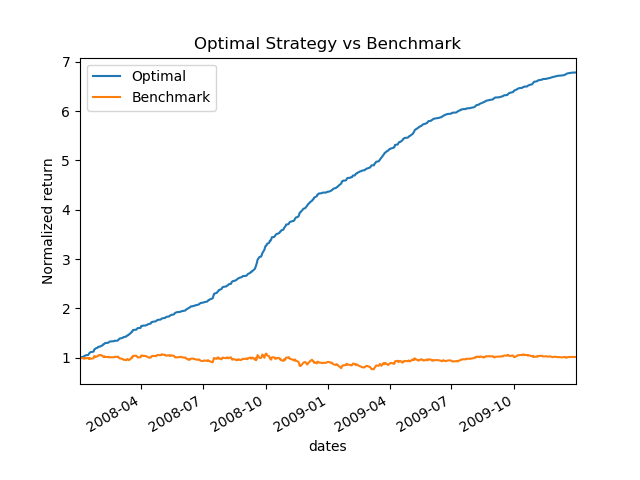
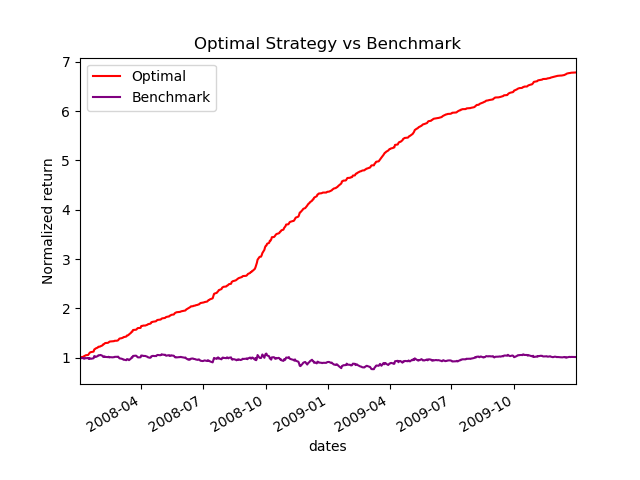
completed code for project

diff --git a/indicator_evaluation/testproject.py b/indicator_evaluation/testproject.py
@@ -31,18 +31,11 @@ def calculate_stats(port_vals):
 
 
 def printData(sharpe_ratio, cum_ret, std_daily_ret, avg_daily_ret, portVals):
-   print()
-   print()
-   print(f"Sharpe Ratio of Fund: {sharpe_ratio}")  		  	   		  		 		  		  		    	 		 		   		 		  
-   print()  		  	   		  		 		  		  		    	 		 		   		 		  
-   print(f"Cumulative Return of Fund: {cum_ret}")  		  	   		  		 		  		  		    	 		 		   		 		  
-   print()  		  	   		  		 		  		  		    	 		 		   		 		  
-   print(f"Standard Deviation of Fund: {std_daily_ret}")  		  	   		  		 		  		  		    	 		 		   		 		  
-   print()  		  	   		  		 		  		  		    	 		 		   		 		  
-   print(f"Average Daily Return of Fund: {avg_daily_ret}")  		  	   		  		 		  		  		    	 		 		   		 		  
-   print()  		  	   		  		 		  		  		    	 		 		   		 		  
+   print(f"Sharpe Ratio of portfolio: {sharpe_ratio}")  		  	   		  		 		  		  		    	 		 		   		 		  	 		  
+   print(f"Cumulative Return of portfolio: {cum_ret}")  		  	   		  		 		  		  		    	 		 		   		 		  	 		  
+   print(f"Standard Deviation of portfolio: {std_daily_ret}")  		  	   		  		 		  		  		    	 		 		   		 		  	 		  
+   print(f"Average Daily Return of portfolio: {avg_daily_ret}")  		  	   		  		 		  		  		    	 		 		   		 		  	 		  
    print(f"Final Portfolio Value: {portVals.iloc[-1][0]}")
-   print()
    print()
 
 if __name__ == "__main__":
@@ -59,14 +52,17 @@ if __name__ == "__main__":
 
    # get data and print it for optimal trades and benchmark trades
    cum_ret, avg_daily_ret, std_daily_ret, sharpe_ratio = calculate_stats(portVals.to_numpy())
+   print()
+   print('Statistics of Optimal Strategy:\n')
    printData(sharpe_ratio, cum_ret, std_daily_ret, avg_daily_ret, portVals)
    cum_ret, avg_daily_ret, std_daily_ret, sharpe_ratio = calculate_stats(benchportVals.to_numpy())
+   print('Statistics of Benchmark:\n')
    printData(sharpe_ratio, cum_ret, std_daily_ret, avg_daily_ret, benchportVals)
    
    portVals = portVals/portVals.iloc[0]
    benchportVals = benchportVals/benchportVals.iloc[0]
-   ax = portVals.plot()
-   benchportVals.plot(ax=ax)
+   ax = portVals.plot(color='red')
+   benchportVals.plot(ax=ax,color='purple')
    plt.xlabel('dates')
    plt.ylabel('Normalized return')
    plt.title('Optimal Strategy vs Benchmark')

diff --git a/indicator_evaluation/TheoreticallyOptimalStrategy.py b/indicator_evaluation/TheoreticallyOptimalStrategy.py
@@ -11,7 +11,6 @@ from util import get_data, plot_data
 def author(): 
   return 'gdutka3'
 
-
 def testPolicy(symbol="JPM", st=dt.datetime(2008,1,1), ed=dt.datetime(2009,12,31), sv=100000):
    # Read in adjusted closing prices for given symbols, date range  		  	   		  		 		  		  		    	 		 		   		 		  
    dates = pd.date_range(st, ed)

diff --git a/indicator_evaluation/indicators.py b/indicator_evaluation/indicators.py
@@ -11,7 +11,8 @@ import pandas as pd
 from util import get_data, plot_data
 import matplotlib.pyplot as plt
 
-
+def author(): 
+  return 'gdutka3'
 
 def getCCI(dates):
    df = pd.DataFrame(index=dates)
